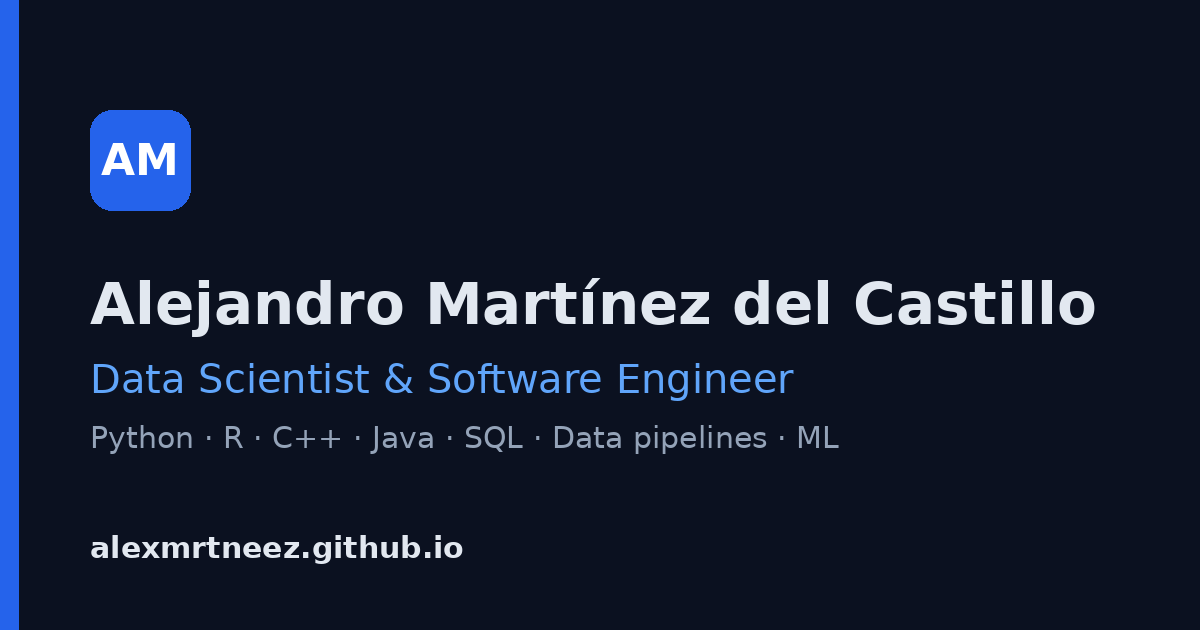
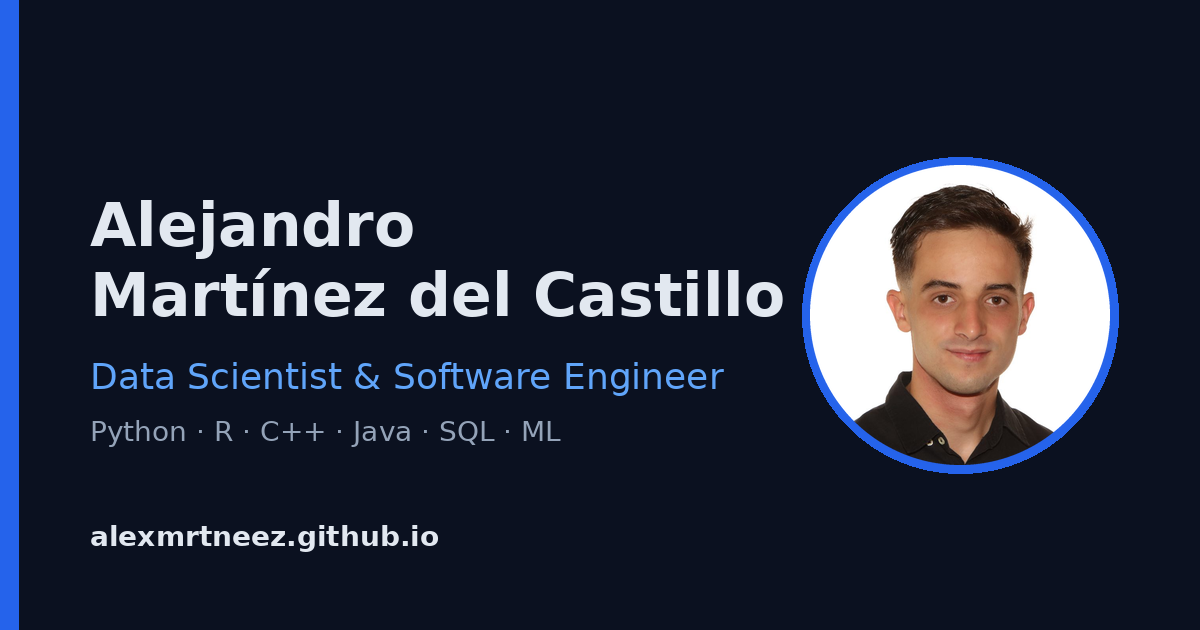
Add profile photo

Changed region(s): [[0.0617, 0.1508, 0.9558, 0.754], [0.0617, 0.8143, 0.4008, 0.9048]]

diff --git a/index.html b/index.html
@@ -69,7 +69,7 @@
       <div class="nav__actions">
         <div class="lang-switch" role="group" aria-label="Language">
           <span aria-current="true">EN</span>
-          <a href="es/" hreflang="es" lang="es" data-lang-link>ES</a>
+          <a href="es/index.html" hreflang="es" lang="es" data-lang-link>ES</a>
         </div>
         <button class="icon-btn" id="theme-toggle" type="button" aria-label="Toggle dark mode">
           <svg class="icon icon-moon" aria-hidden="true"><use href="#i-moon"/></svg>
@@ -85,7 +85,9 @@
   <main id="main">
     <!-- ================= HERO ================= -->
     <section class="hero" id="top">
-      <div class="container">
+      <div class="container hero__inner">
+        <img class="hero__photo" src="assets/img/profile.jpg" alt="Photo of Alejandro Martínez del Castillo" width="240" height="240">
+        <div class="hero__text">
         <p class="hero__eyebrow">Open to internships &amp; junior roles</p>
         <h1>Alejandro Martínez del Castillo</h1>
         <p class="hero__title">Data Scientist &amp; Software Engineer · MSc student</p>
@@ -105,12 +107,13 @@
             <svg class="icon" aria-hidden="true"><use href="#i-mail"/></svg> Email me
           </a>
           <!-- TODO: replace with your LinkedIn URL -->
-          <a class="btn" href="https://www.linkedin.com/in/TODO" target="_blank" rel="noopener">
+          <a class="btn" href="https://www.linkedin.com/in/alejandro-rutilo-martinez/" target="_blank" rel="noopener">
             <svg class="icon" aria-hidden="true"><use href="#i-linkedin"/></svg> LinkedIn
           </a>
           <a class="btn" href="https://github.com/alexmrtneez" target="_blank" rel="noopener">
             <svg class="icon" aria-hidden="true"><use href="#i-github"/></svg> GitHub
           </a>
+        </div>
         </div>
       </div>
     </section>
@@ -358,7 +361,7 @@
             <h3>Adversarial Search Agent for Parchís</h3>
             <p>AI player for the board game Parchís that uses Minimax with alpha-beta pruning (depth 6) and a custom heuristic to choose its moves against other agents.</p>
             <ul class="tags" aria-label="Technologies">
-              <li class="tag">C++</li><li class="tag">Alpha-beta pruning</li><li class="tag">Heuristics</li><li class="tag">CMake</li>
+              <li class="tag">C++</li><li class="tag">Alpha-beta pruning</li><li class="tag">Heuristics</li>
             </ul>
             <div class="project__links">
               <a href="https://github.com/alexmrtneez/busqueda-adversario" target="_blank" rel="noopener"><svg class="icon" aria-hidden="true"><use href="#i-github"/></svg> Code</a>
@@ -377,7 +380,7 @@
         <p>I'm currently looking for internships and junior roles in software engineering and data science. Feel free to reach out.</p>
         <div class="btn-row">
           <a class="btn btn--primary" href="mailto:TODO@example.com"><svg class="icon" aria-hidden="true"><use href="#i-mail"/></svg> Email me</a>
-          <a class="btn" href="https://www.linkedin.com/in/TODO" target="_blank" rel="noopener"><svg class="icon" aria-hidden="true"><use href="#i-linkedin"/></svg> LinkedIn</a>
+          <a class="btn" href="https://www.linkedin.com/in/alejandro-rutilo-martinez/" target="_blank" rel="noopener"><svg class="icon" aria-hidden="true"><use href="#i-linkedin"/></svg> LinkedIn</a>
           <a class="btn" href="https://github.com/alexmrtneez" target="_blank" rel="noopener"><svg class="icon" aria-hidden="true"><use href="#i-github"/></svg> GitHub</a>
         </div>
       </div>

diff --git a/es/index.html b/es/index.html
@@ -68,7 +68,7 @@
       </nav>
       <div class="nav__actions">
         <div class="lang-switch" role="group" aria-label="Idioma">
-          <a href="../" hreflang="en" lang="en" data-lang-link>EN</a>
+          <a href="../index.html" hreflang="en" lang="en" data-lang-link>EN</a>
           <span aria-current="true">ES</span>
         </div>
         <button class="icon-btn" id="theme-toggle" type="button" aria-label="Cambiar modo oscuro">
@@ -85,7 +85,9 @@
   <main id="main">
     <!-- ================= HERO ================= -->
     <section class="hero" id="top">
-      <div class="container">
+      <div class="container hero__inner">
+        <img class="hero__photo" src="../assets/img/profile.jpg" alt="Foto de Alejandro Martínez del Castillo" width="240" height="240">
+        <div class="hero__text">
         <p class="hero__eyebrow">Disponible para prácticas y puestos junior</p>
         <h1>Alejandro Martínez del Castillo</h1>
         <p class="hero__title">Científico de Datos e Ingeniero de Software · Estudiante de máster</p>
@@ -111,6 +113,7 @@
           <a class="btn" href="https://github.com/alexmrtneez" target="_blank" rel="noopener">
             <svg class="icon" aria-hidden="true"><use href="#i-github"/></svg> GitHub
           </a>
+        </div>
         </div>
       </div>
     </section>

diff --git a/assets/css/styles.css b/assets/css/styles.css
@@ -164,6 +164,16 @@ ul { margin: 0; padding: 0; }
 
 /* ---------- Hero ---------- */
 .hero { padding: 72px 0 56px; }
+.hero__inner { display: flex; flex-direction: column; gap: 28px; }
+.hero__photo {
+  width: 132px; height: 132px; border-radius: 50%; object-fit: cover;
+  border: 4px solid var(--surface); box-shadow: 0 0 0 2px var(--accent), var(--shadow);
+  background: var(--surface);
+}
+@media (min-width: 860px) {
+  .hero__inner { flex-direction: row-reverse; align-items: center; justify-content: space-between; gap: 48px; }
+  .hero__photo { width: 240px; height: 240px; }
+}
 .hero__eyebrow {
   display: inline-flex; align-items: center; gap: 8px;
   font-size: 0.85rem; font-weight: 600; color: var(--accent);
